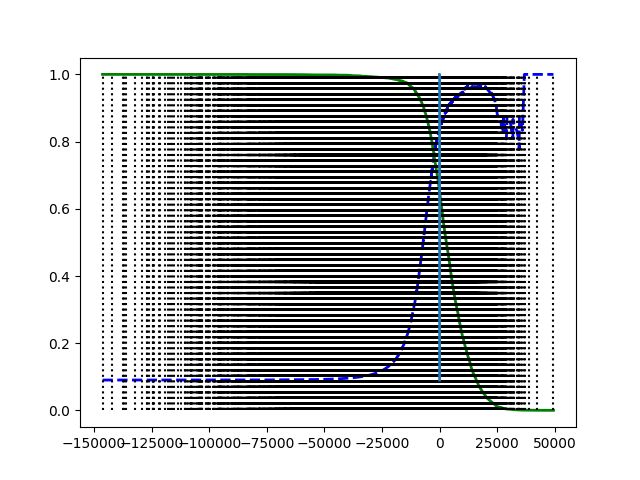
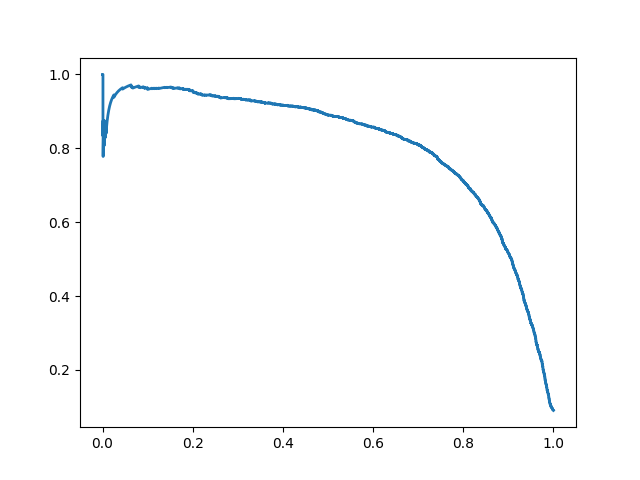
fixing plotting

diff --git a/Hands-On/Ch3/Classification.py b/Hands-On/Ch3/Classification.py
@@ -7,8 +7,8 @@ from DataProcessors import DataProcessor
 from sklearn.linear_model import SGDClassifier
 from sklearn.model_selection import cross_val_score, cross_val_predict
 from sklearn.dummy import DummyClassifier
-from sklearn.metrics import confusion_matrix, precision_score, recall_score, f1_score, precision_recall_curve
-
+from sklearn.metrics import confusion_matrix, precision_score, recall_score, f1_score, precision_recall_curve, ConfusionMatrixDisplay
+from sklearn.preprocessing import StandardScaler
 def main():
     mnist = fetch_openml('mnist_784', as_frame=False)
 
@@ -96,6 +96,7 @@ def main():
     
     precisions, recalls, thresholds = precision_recall_curve(y_train_fives, y_scores)
     
+    plt.figure()
     plt.plot(thresholds, precisions[:-1], "b--", label="Precision", linewidth=2)
     plt.plot(thresholds, recalls[:-1], "g-", label="Recall", linewidth=2)
     plt.vlines(thresholds, 0, 1.0, "k", "dotted", label="threshold")
@@ -104,6 +105,7 @@ def main():
     
     
     # also can plot precision against the recall directly
+    plt.figure()
     plt.plot(recalls, precisions, linewidth=2, label="Precision/Recall curve")
     plt.savefig(f"precision-recall-curve.png")
     
@@ -124,7 +126,18 @@ def main():
     recall_at_90_precision = recall_score(y_train_fives, y_train_pred_90)
     print(f" recall at 90 - {recall_at_90_precision}")    
     
+    #display confusion matrix pg122
     
+    scaler = StandardScaler()
+    #scale only the training set: instance.x is all 70,000 rows, train_y is only the first 60,000
+    X_train_scaled = scaler.fit_transform(instance.train_x.astype("float64"))
+
+    #this is now a MULTICLASS problem - train_y holds the real labels "0".."9", not the boolean 5/not-5 vector
+    y_train_pred_multi = cross_val_predict(sgd_clf, X_train_scaled, instance.train_y, cv=3)
+
+    plt.figure()
+    ConfusionMatrixDisplay.from_predictions(instance.train_y, y_train_pred_multi)
+    plt.savefig("confusionmatrix.png")
 
 if __name__ == "__main__":
     main()

diff --git a/Hands-On/Ch3/Ch3Notes.md b/Hands-On/Ch3/Ch3Notes.md
@@ -139,6 +139,28 @@ index_for_90_precision = (precisions >= 0.90).argmax()
 
 the receiver operating characteristic (ROC) curve is another common tool used with binary classifiers. Its similar to the precision/recall curve but it plots the <b>true positive rate</b> against the <b>false positive rate</b> aka the fallout is the <b>ratio of negative instaqnces that are incorrectly classified as positive</b>. It is equal to (1 - true negative rate). Where <b>true negative rate</b> is the ratio of negative instances that are correctly classifdied as negative. 
 
+```python
+below is the output of Classification.py
+
+x-shape(70000, 784) : y-shape (70000,)
+x: [[0 0 0 ... 0 0 0]
+ [0 0 0 ... 0 0 0]
+ [0 0 0 ... 0 0 0]
+ ...
+ [0 0 0 ... 0 0 0]
+ [0 0 0 ... 0 0 0]
+ [0 0 0 ... 0 0 0]]
+Cross Validation Score: [0.87745 0.85835 0.8698 ]
+False
+[0.90958333 0.90966667 0.90966667 0.90966667 0.90966667]
+[[53892   687]
+ [ 1891  3530]]
+0.8370879772350012
+0.6511713705958311
+precision score 0.9000345901072293
+ recall at 90 - 0.4799852425751706
+```
+
 ## Multiclass Classification
 
 Where binary classfiers distinguish between two classes, multiclass classifiers can distinguish between more than two classes
